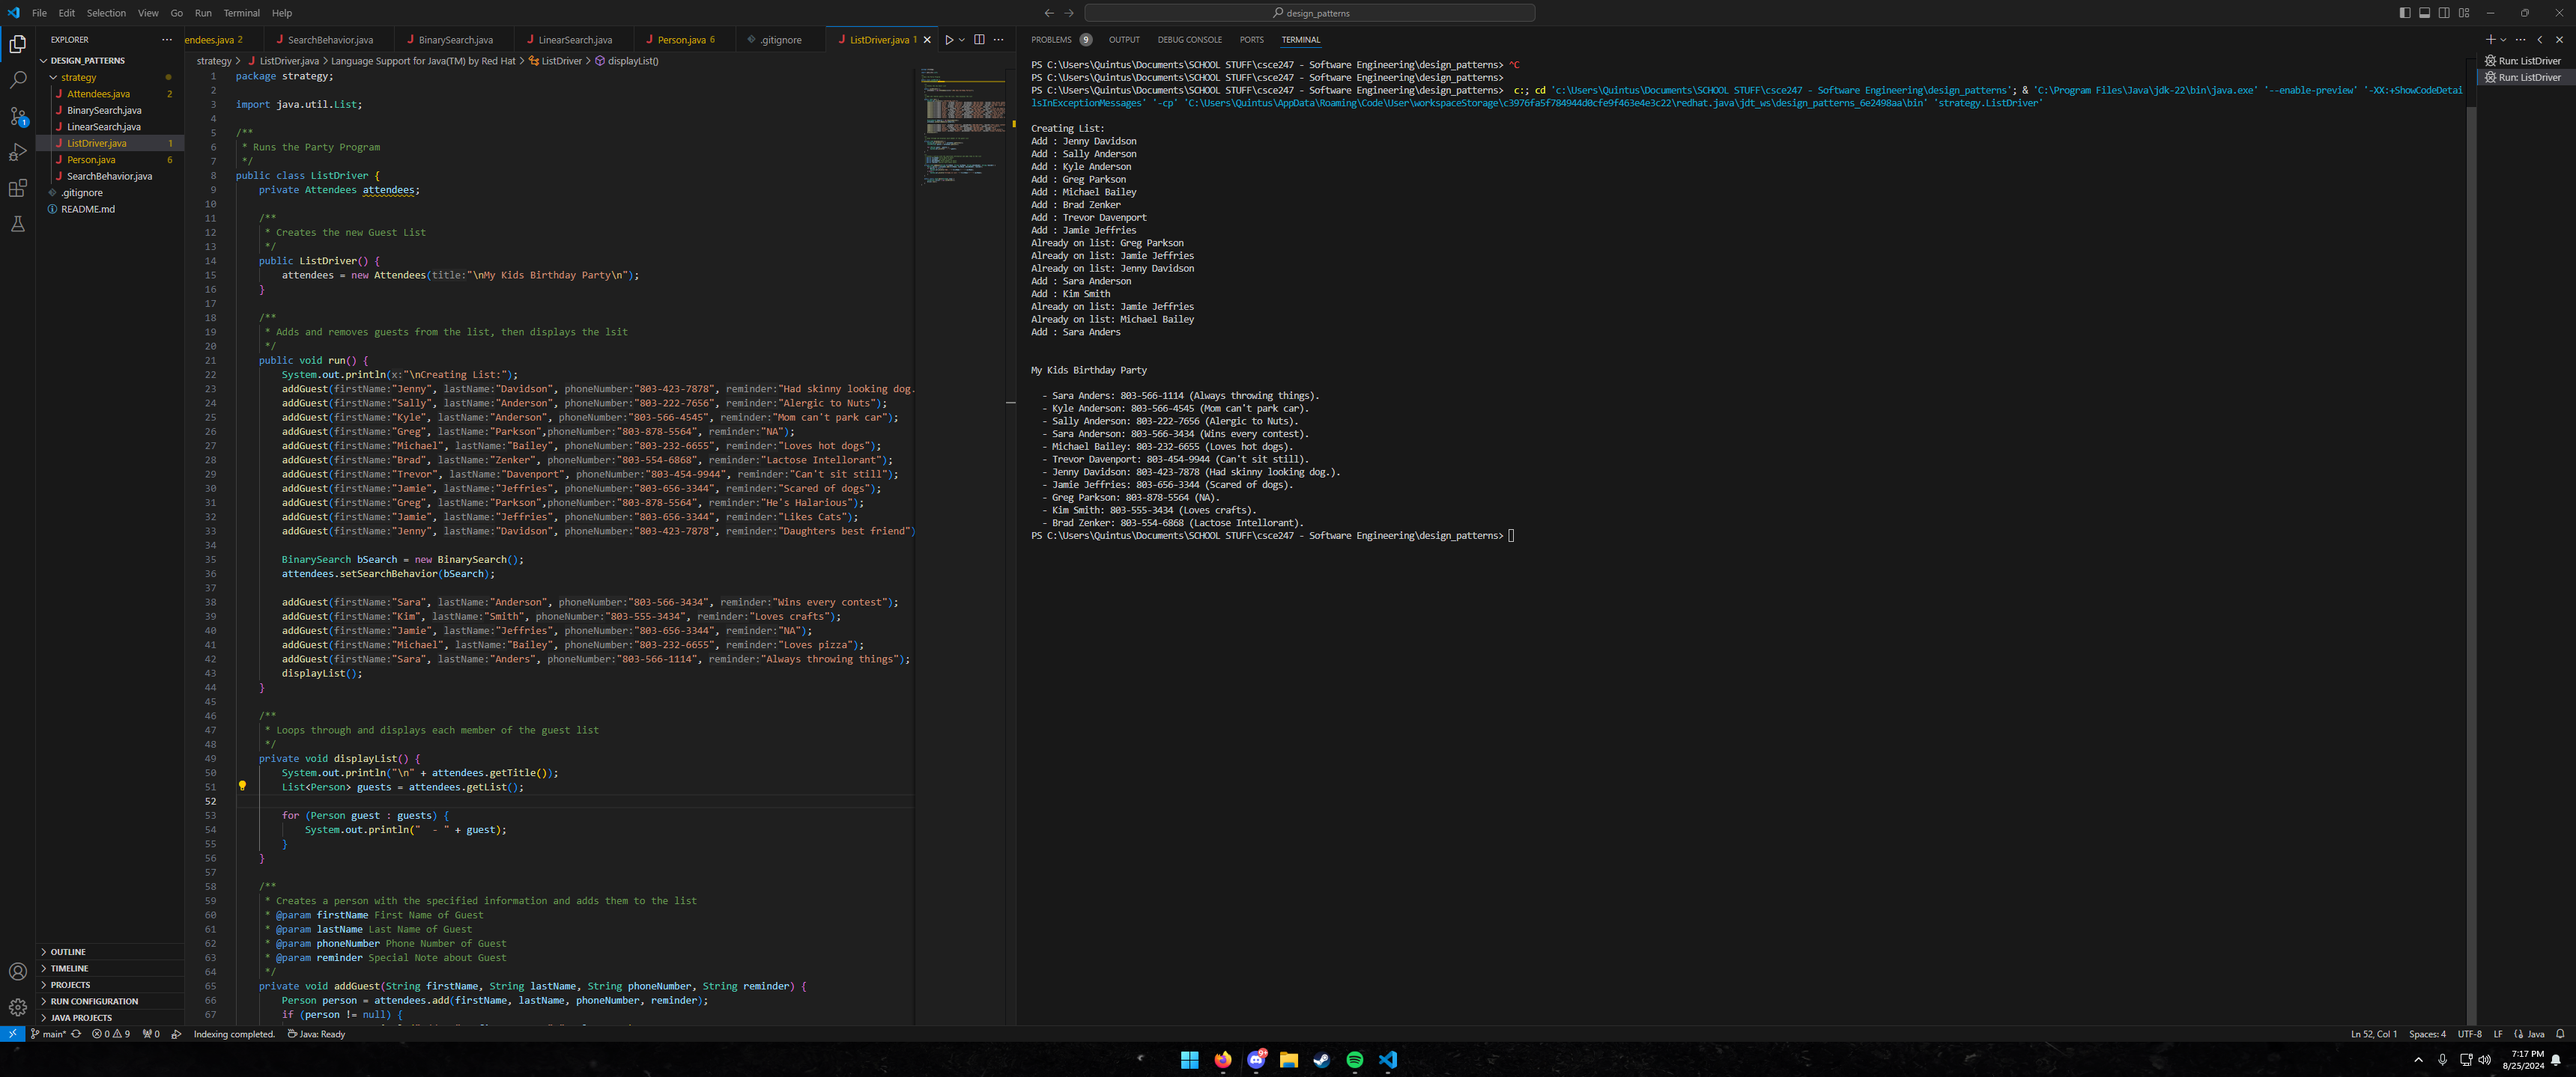
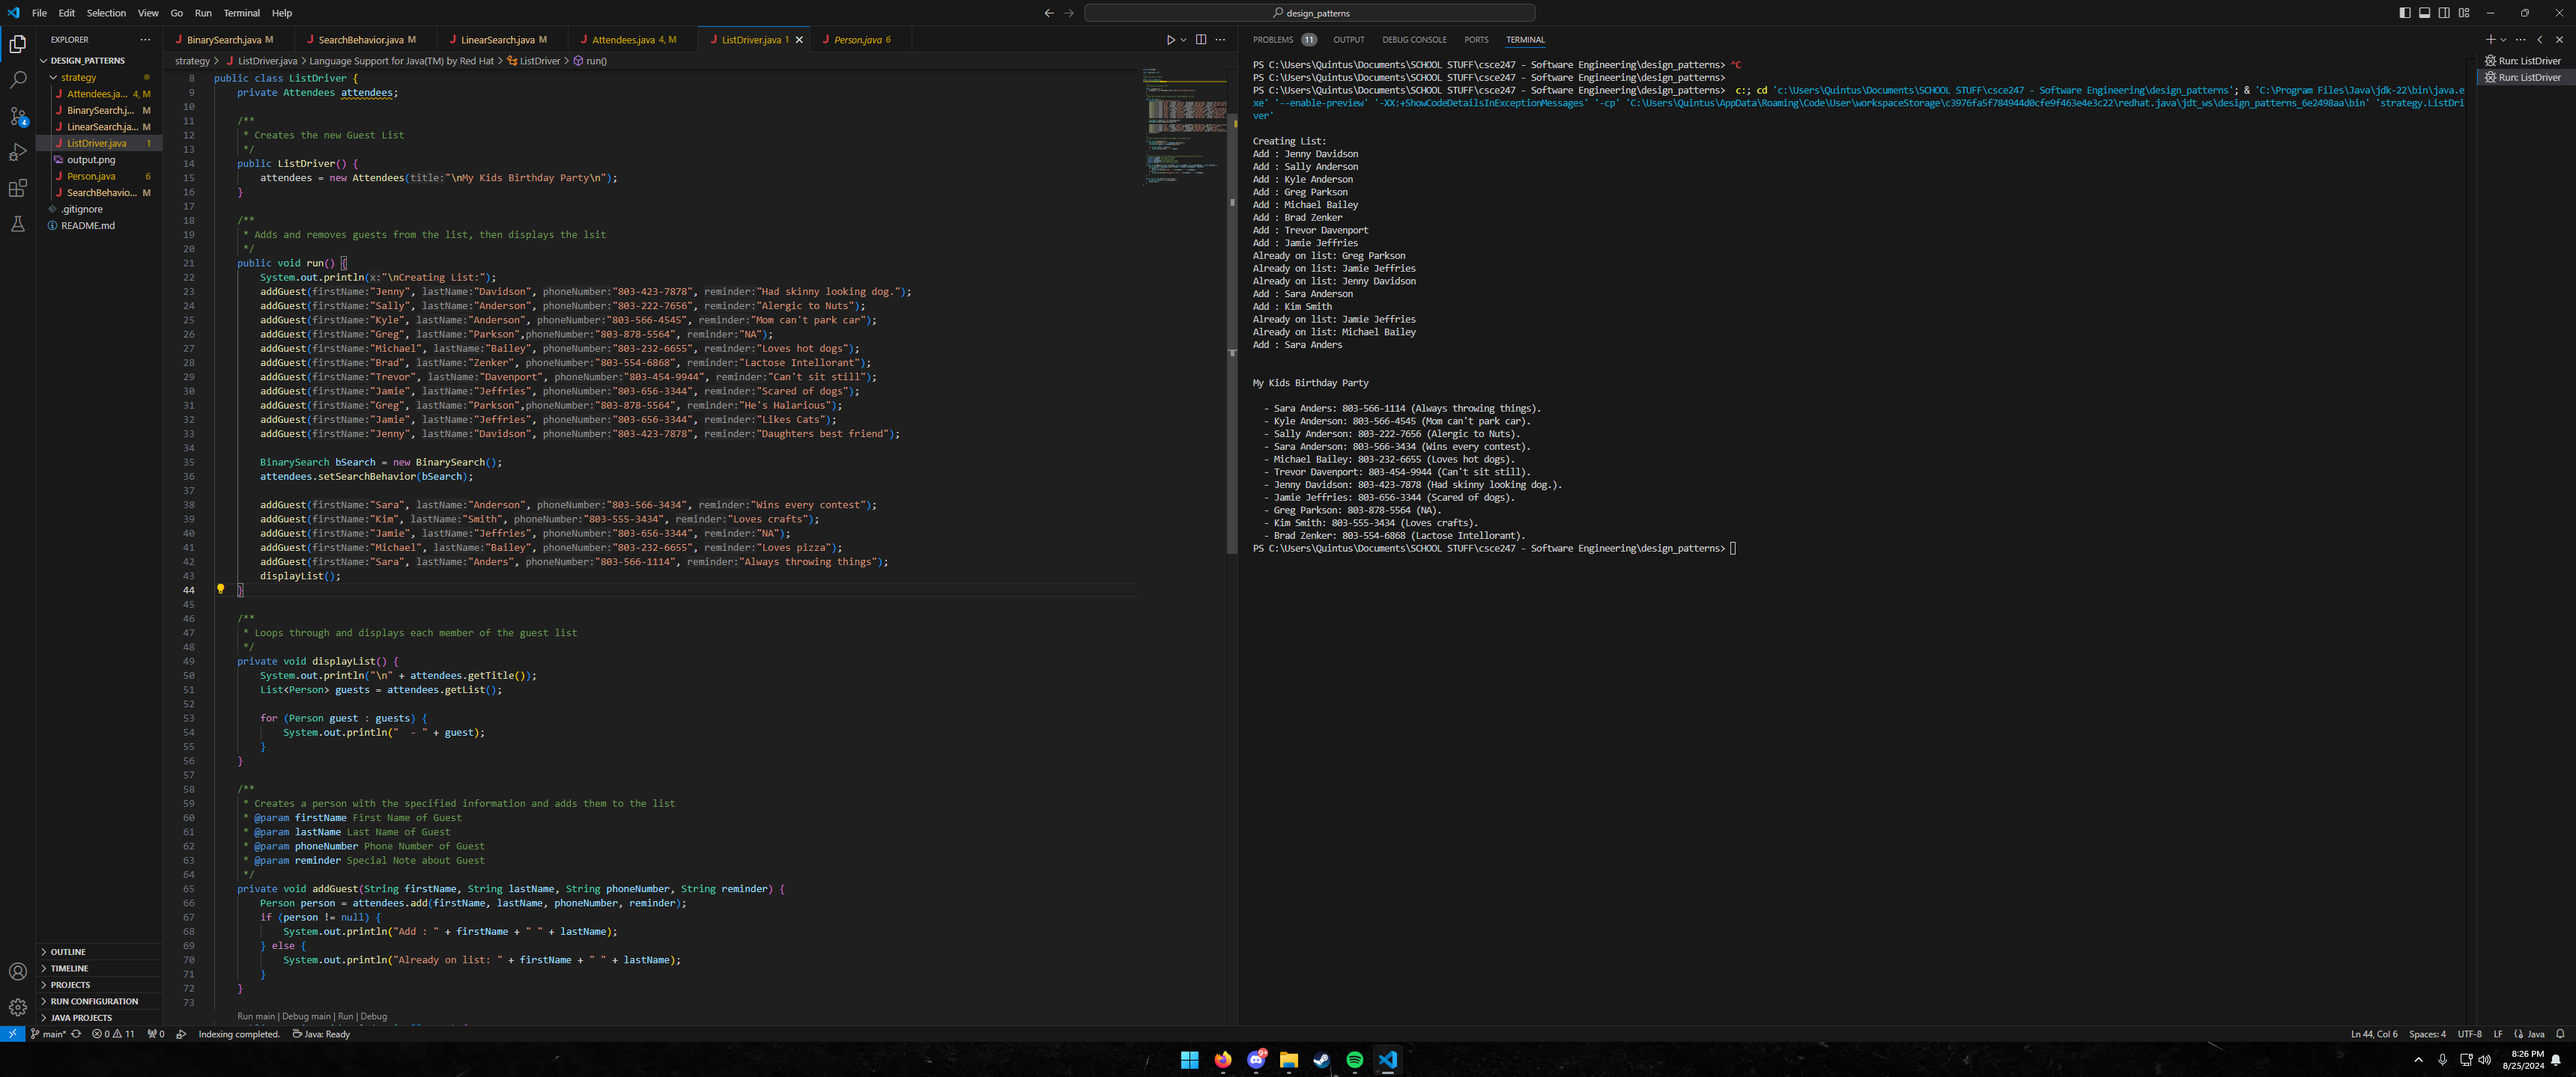
final

diff --git a/strategy/Attendees.java b/strategy/Attendees.java
@@ -58,12 +58,4 @@ public class Attendees {
         Collections.sort(people);
         return people;
     }
-    /**
-     * Checks if the person is in the list
-     * @param person the Person object to be checked
-     * @return true if the person is in the list; otherwise, returns false
-     */
-    public boolean contains(Person person) {
-        return searchBehavior.searchList(people, person);
-    }
 }

diff --git a/strategy/LinearSearch.java b/strategy/LinearSearch.java
@@ -13,7 +13,7 @@ public class LinearSearch implements SearchBehavior {
      * @return true if person in list, else false
      */
     @Override
-    public boolean searchList(List<Person> people, Person personToFind) {
+    public boolean contains(List<Person> people, Person personToFind) {
         for (Person person : people) {
             if (person.equals(personToFind)) {
                 return true;

diff --git a/strategy/BinarySearch.java b/strategy/BinarySearch.java
@@ -14,7 +14,7 @@ public class BinarySearch implements SearchBehavior {
      * @return true if person in list, else false
      */
     @Override
-    public boolean searchList(List<Person> people, Person personToFind) {
+    public boolean contains(List<Person> people, Person personToFind) {
         Collections.sort(people);
         return Collections.binarySearch(people, personToFind) >= 0;
     }

diff --git a/strategy/SearchBehavior.java b/strategy/SearchBehavior.java
@@ -12,5 +12,5 @@ public interface SearchBehavior {
      * @param personToFind person to search for
      * @return Boolean on if the person is in the list
      */
-    boolean searchList(List<Person> people, Person personToFind);
+    boolean contains(List<Person> people, Person personToFind);
 }
